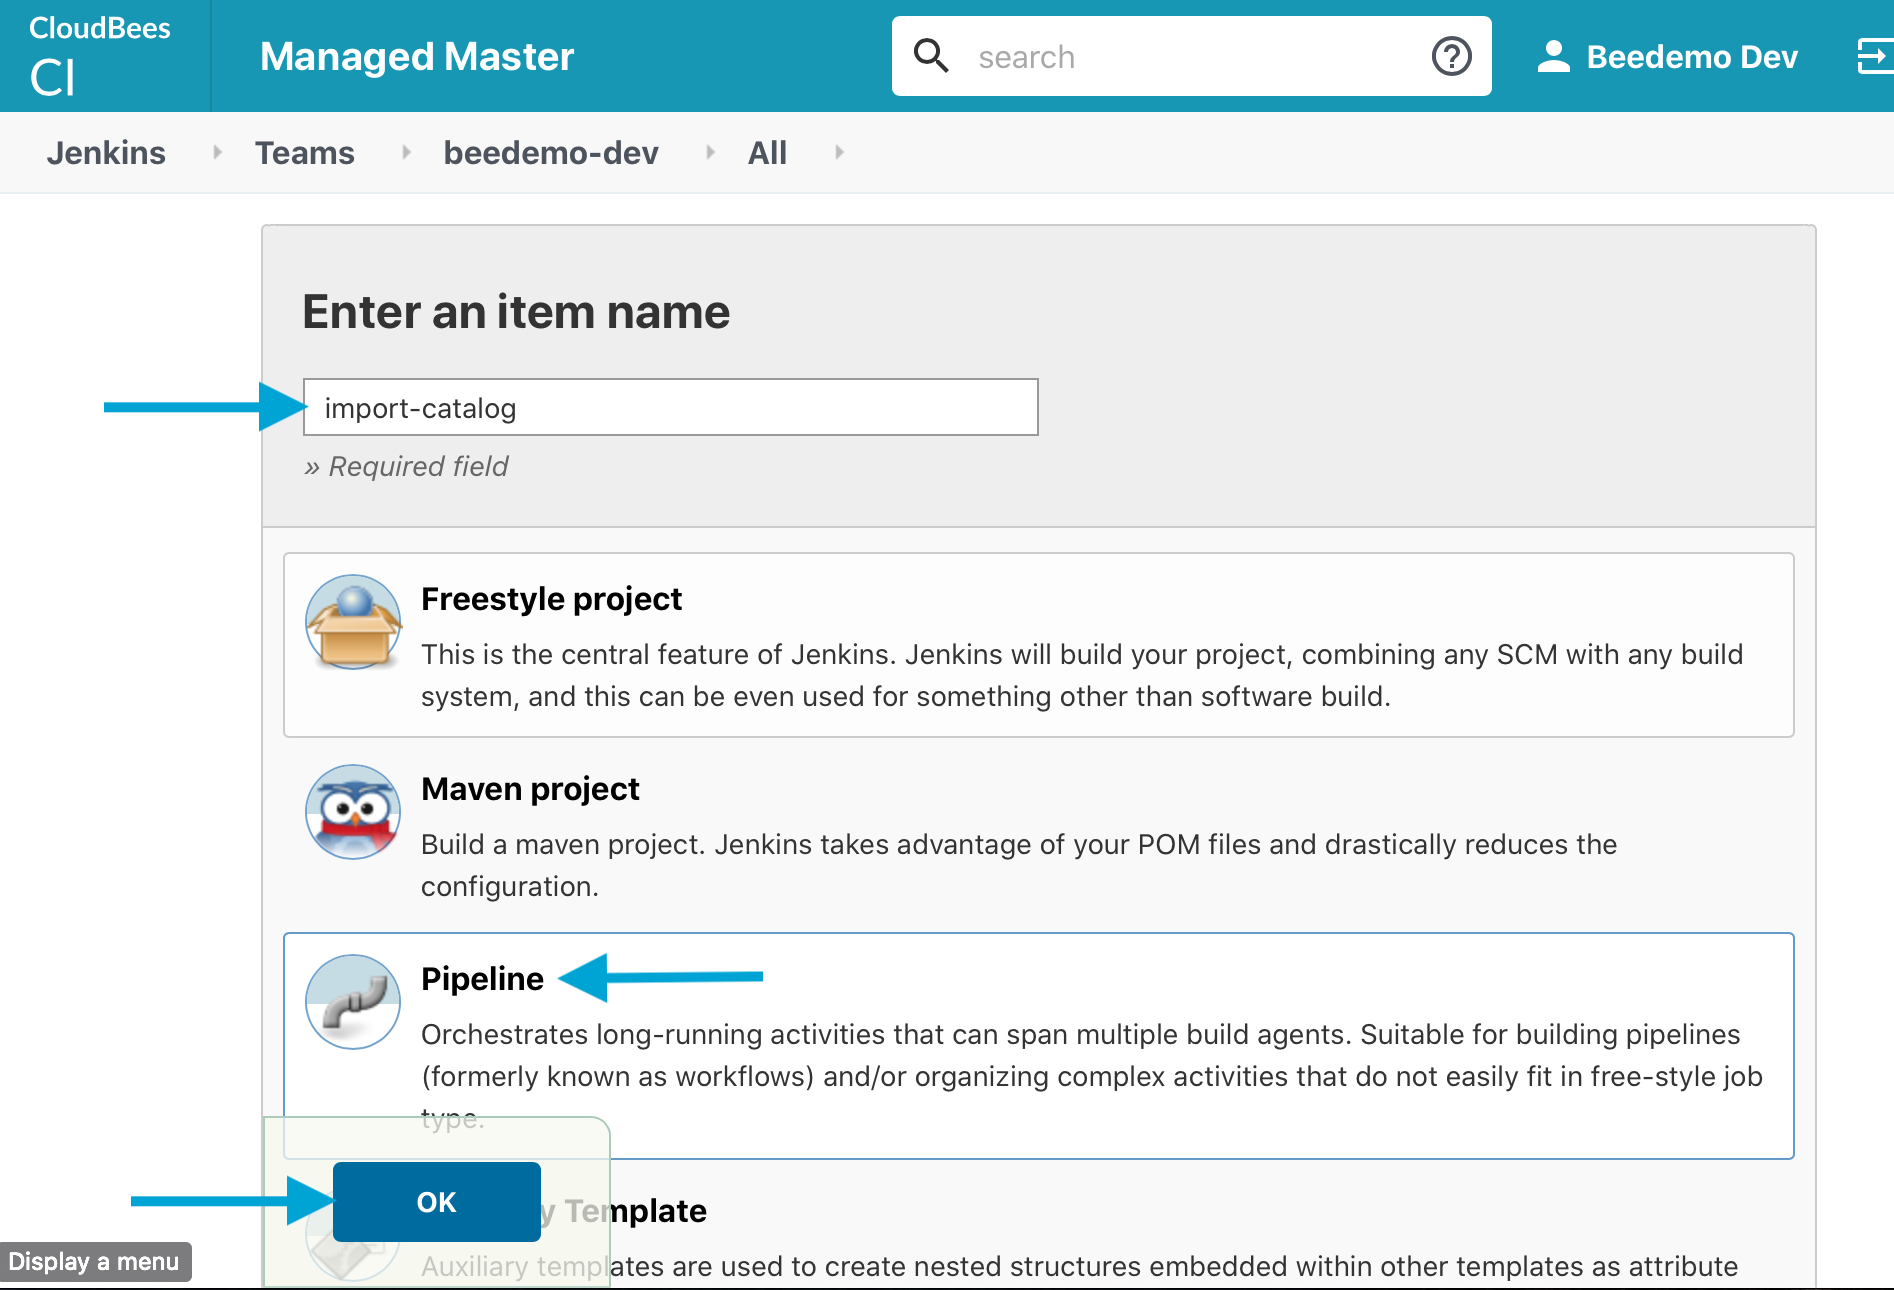
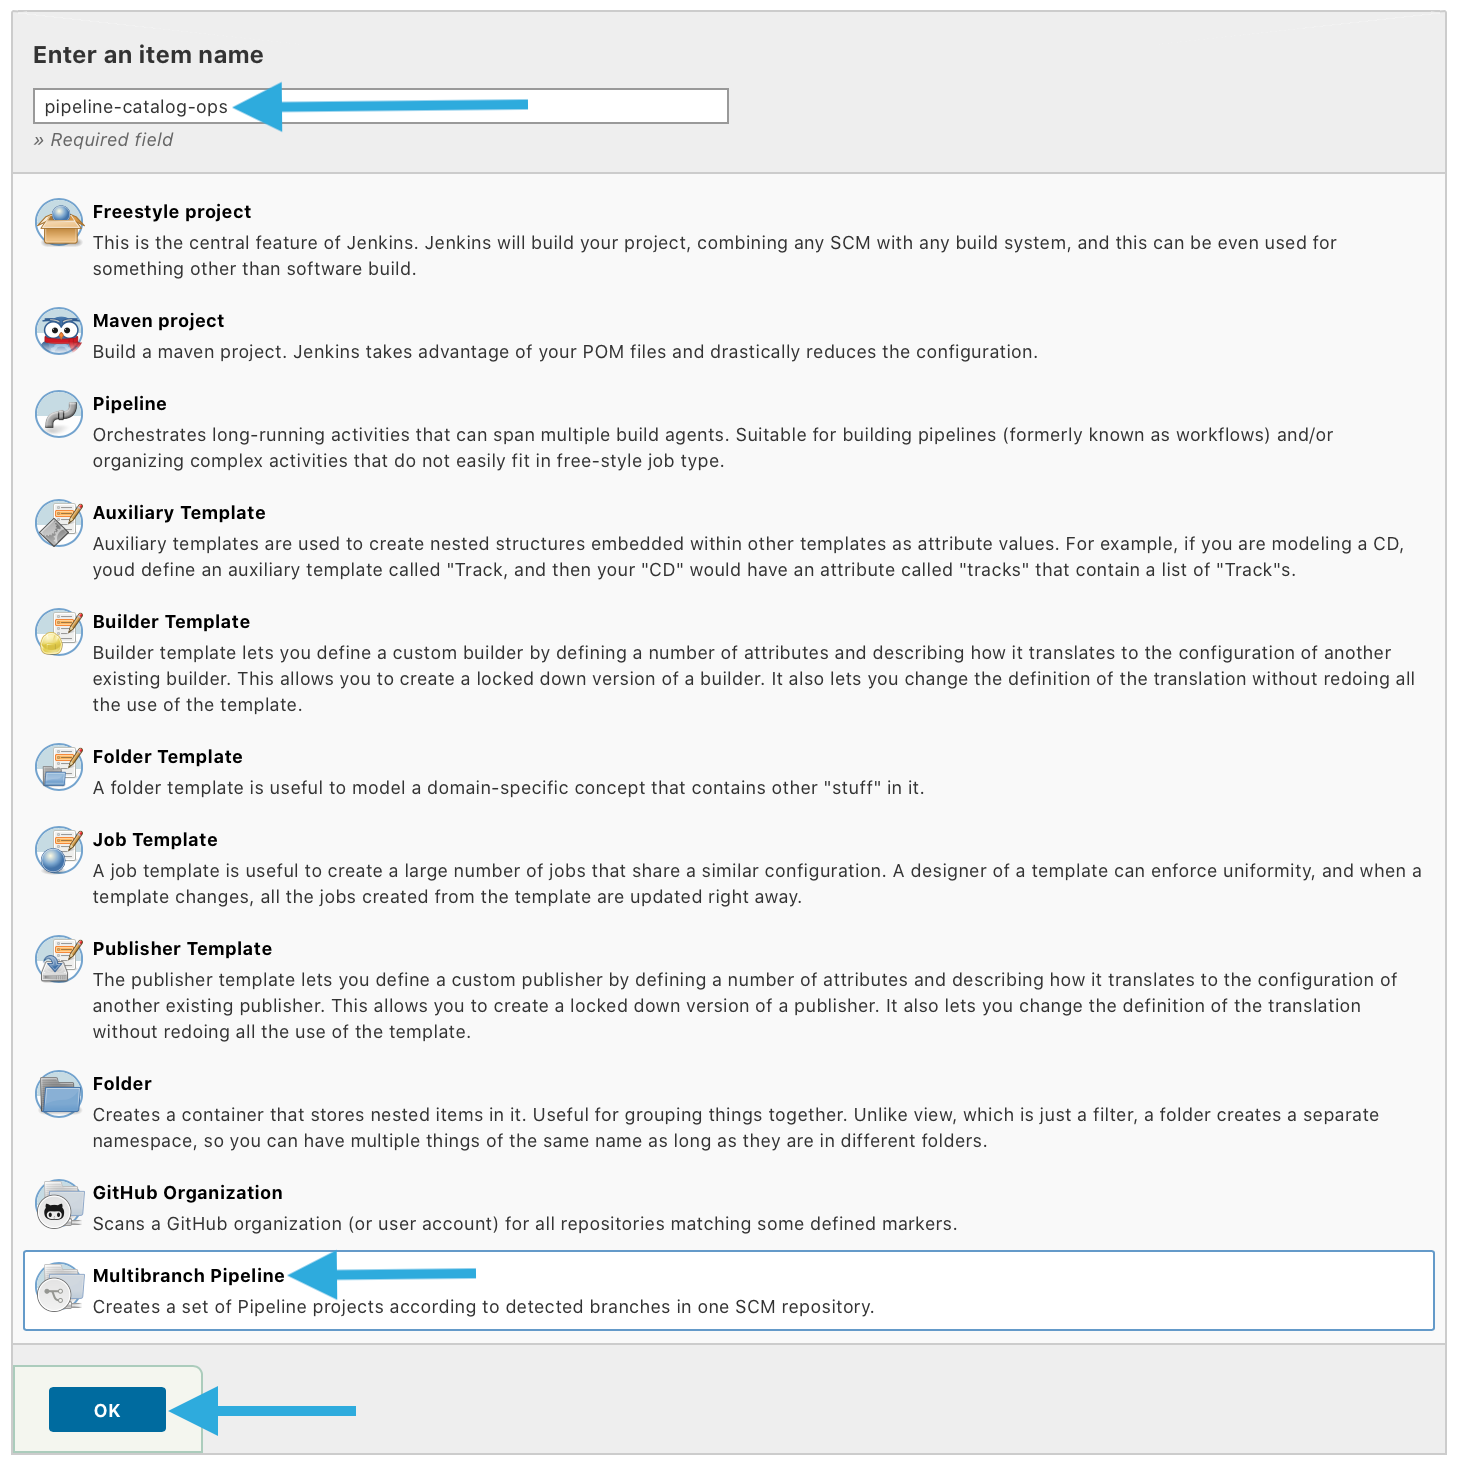
updated catalog lab

diff --git a/labs/cloudbees-ci/content/module-1/pipeline-template-catalog.md b/labs/cloudbees-ci/content/module-1/pipeline-template-catalog.md
@@ -9,14 +9,14 @@ Although you can add Pipeline Template Catalogs via the managed controller UI, t
 
 1. Navigate to the top-level of Operations Center - **Jenkins** - and click on the link for your ***managed controller***. ![Managed Controller link](managed-controller-link.png?width=60pc)
 2. At the top-level of your CloudBees CI managed controller click on **New Item** in the left menu. ![New Item](create-new-item.png?width=60pc)
-3. Enter ***import-catalog*** as the **item name**, select **Pipeline** and the click the **OK** button.<p>![import-catalog Pipeline](create-pipeline-item.png?width=60pc)
-4. Scroll down to the **Pipeline** section of the job configuration and select ***Pipeline script from SCM*** for the **Definition**. <p>![Pipeline Definition](pipeline-definition.png?width=60pc)
-5. Select ***Git*** as the **SCM** type and then:
-   - Enter the URL for your fork of the `pipeline-template-catalog` as the value for the **Repository URL** - ***https:\//github.com/{YOUR_GITHUB_ORGANIZATION}/pipeline-template-catalog.git***
-   - If you navigate to your GitHub `pipeline-template-catalog` repository, and click on the **Code** button, you can then click on the *clipboard* icon to copy the Git URL for your repository. ![Copy Repo Git URL](copy-repo-url.png?width=40pc)
-   - Select ***77562/\*\*\*\*\*\* (CloudBees CI Workshop GitHub App credential)*** for the **Credentials** value. The rest of the default values are sufficient.
-   - Click the **Save** button. <p>![Pipeline SCM Configuration](pipeline-scm-config.png?width=60pc)
-   - The Pipeline is configured to use the CloudBees CI `pipeline-template-catalogs` CLI command to create a **Pipeline Template Catalog** from the `create-pipeline-template-catalog.json` file in your `pipeline-template-catalog` repository as seen below:
+3. Enter ***pipeline-catalog-ops*** as the **item name**, select **Multibranch Pipeline** as the item type and the click the **OK** button. ![import-catalog Pipeline](create-pipeline-item.png?width=60pc)
+4. Under **Branch Sources** click on **Add source** and select ***GitHub*** ![Branch Sources Configuration](add-source-github.png?width=60pc)
+5. Under the **GitHub** branch source enter the following:
+   - Select ***77562/\*\*\*\*\*\* (CloudBees CI Workshop GitHub App credential)*** for the **Credentials** value. 
+   - Enter the URL for your fork of the `pipeline-template-catalog` as the value for the **Repository HTTPS URL** - ***https:\//github.com/{YOUR_GITHUB_ORGANIZATION}/pipeline-template-catalog.git***
+     - TIP: If you navigate to your GitHub `pipeline-template-catalog` repository, and click on the **Code** button, you can then click on the *clipboard* icon to copy the Git URL for your repository. ![Copy Repo Git URL](copy-repo-url.png?width=40pc)
+   - The rest of the default values are sufficient so click the **Save** button. ![Branch Sources Configuration](branch-source-config.png?width=60pc)
+   - The `Jenkinsfile` in your `pipeline-template-catalog` repository is configured to use the CloudBees CI `pipeline-template-catalogs` CLI command to create a **Pipeline Template Catalog** on your ***managed controller*** from the `create-pipeline-template-catalog.json` file in your `pipeline-template-catalog` repository as seen below:
      ```json
      [
        {
@@ -27,23 +27,14 @@ Although you can add Pipeline Template Catalogs via the managed controller UI, t
            "repository":"pipeline-template-catalog"
          },
          "branchOrTag":"master",
-         "updateInterval":"28d"
+         "updateInterval":"15m"
        }
      ]
      ```
-6. Click **Build Now** in the left navigation menu.
-7. Once the job is complete you should see the following success message in the build log:
-   
-   ```
-   {
-     "message" : "Successfully imported Pipeline Template Catalogs.",
-     "status" : "SUCCESS"
-   }
-   ```
-
-8. Navigate to the top-level of your ***managed controller*** and then click on the **Pipeline Template Catalogs** link in the menu on the left. <p>![Pipeline Template Catalogs link](catalog-link.png?width=60pc)
-9. On the **Pipeline Template Catalogs** page ensure that the **workshopCatalog** catalog's **Status** is ***Healthy*** and then click on the **workshopCatalog** link. <p>![workshopCatalog link](workshopcatalog-link.png?width=50pc)
-10. On the **CloudBees CI Workshop Template Catalog** screen you will see the following templates listed: ![Template List](workshop-template-list.png?width=50pc)
+6. A Pipeline job will be created for the `master` branch of your `pipeline-template-catalog` repository and Once the job is complete you should see the following success message in the build logs: ![Catalog Imported](catalog-imported.png?width=60pc)
+7. Navigate to the top-level of your ***managed controller*** and then click on the **Pipeline Template Catalogs** link in the menu on the left. <p>![Pipeline Template Catalogs link](catalog-link.png?width=60pc)
+8. On the **Pipeline Template Catalogs** page ensure that the **workshopCatalog** catalog's **Status** is ***Healthy*** and then click on the **workshopCatalog** link. <p>![workshopCatalog link](workshopcatalog-link.png?width=50pc)
+9.  On the **CloudBees CI Workshop Template Catalog** screen you will see the following templates listed: ![Template List](workshop-template-list.png?width=50pc)
 
 ## Enforce the Use of Templates at the Folder Level
 The [CloudBees CI Folders Plus plugin](https://docs.cloudbees.com/docs/cloudbees-ci/latest/cloud-secure-guide/folders-plus) includes the ability to restrict the type of items/jobs allowed to be created in a folder. When this capability is used with CloudBees CI RBAC you can easily enforce that all your CloudBees CI users use an approved (and tested) Pipeline template.
